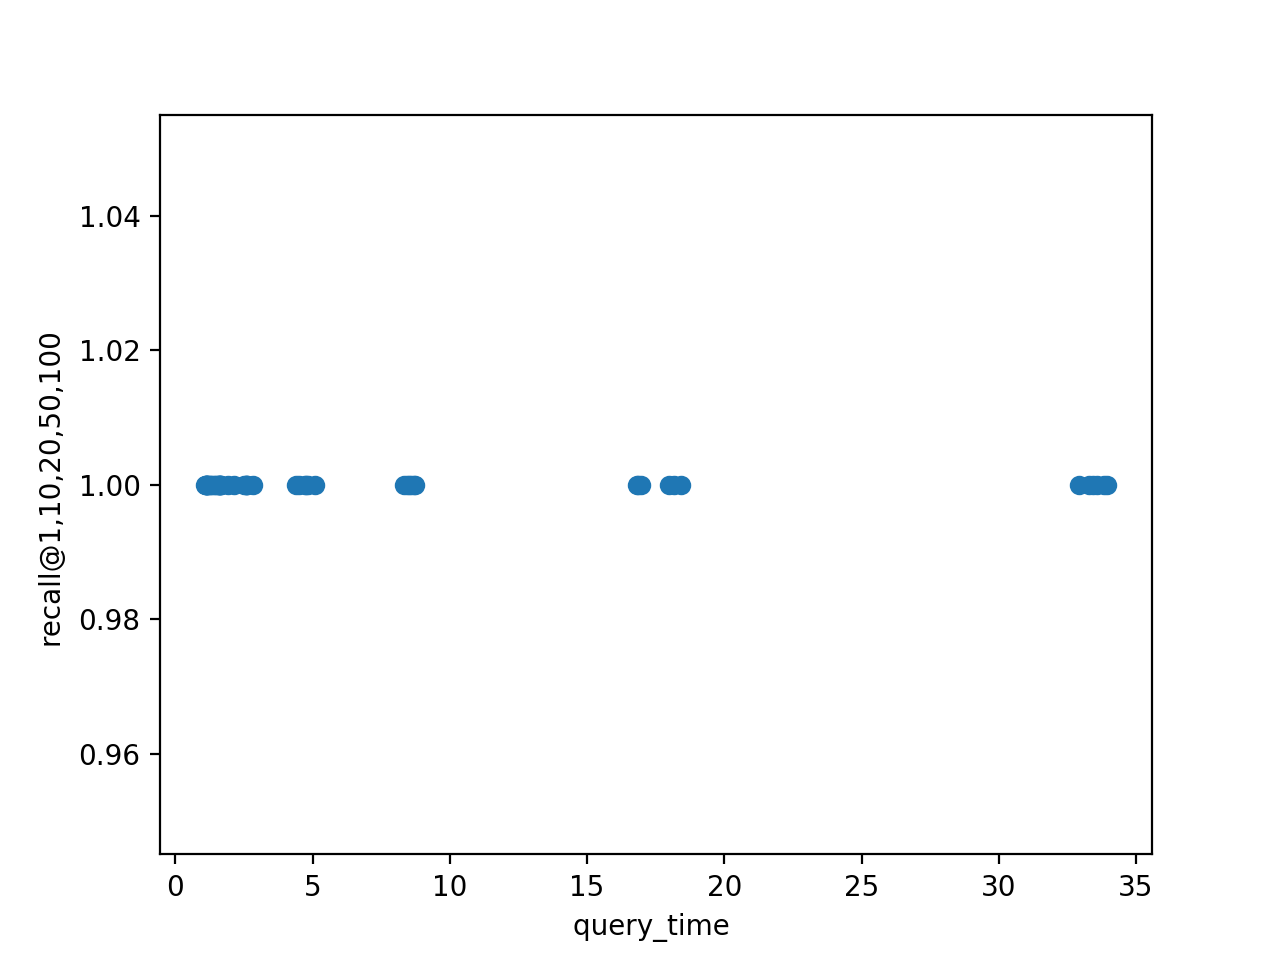
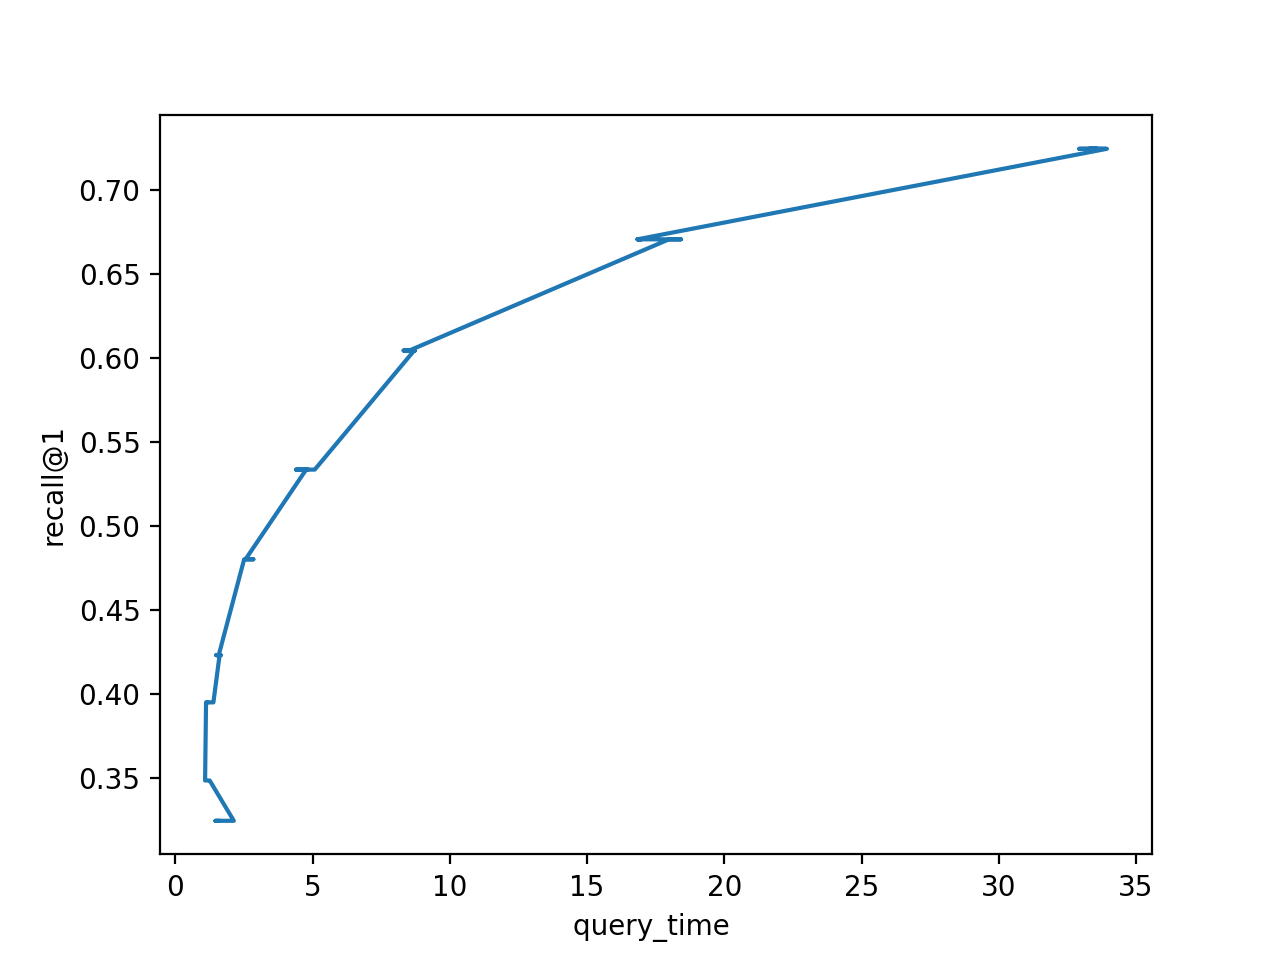
fix: takes the k parameter to be used with recall at k

diff --git a/vector_indexers/plot.py b/vector_indexers/plot.py
@@ -1,30 +1,48 @@
+import click
 import matplotlib.pyplot as plt
 import json
 import pandas as pd
 
 
-def create_plot():
-
+@click.command()
+@click.option('--recall_at', '-k', default=0)
+def create_plot(recall_at):
     input_file = open('results.json')
     json_array = json.load(input_file)
+
     result_list = []
+    result_y = []
 
     for item in json_array:
-        result_details = {"query_time": None, "recall@1,10,20,50,100": None}
+        result_details = {"index_time": None,
+                          "index_docs": None,
+                          "query_time": None,
+                          "build_time": None,
+                          "query_docs": None,
+                          "recall@1,10,20,50,100": None}
+
+        result_details['index_docs'] = item['index_docs']
+        result_details['index_docs'] = item['index_docs']
         result_details['query_time'] = item['query_time']
+        result_details['build_time'] = item['build_time']
+        result_details['query_docs'] = item['query_docs']
         result_details['recall@1,10,20,50,100'] = item['recall@1,10,20,50,100']
         result_list.append(result_details)
 
     result_list_dataframe = pd.DataFrame(result_list)
-    dfg = result_list_dataframe.groupby('query_time').count()
+    query_time = result_list_dataframe['query_time']
 
-    plt.scatter(x=dfg.index, y=dfg['recall@1,10,20,50,100'])
-    plt.ylabel('recall@1,10,20,50,100 ')
+    recall_at_k = result_list_dataframe['recall@1,10,20,50,100']
+
+    for inner_l in recall_at_k:
+        result_y.append(inner_l[recall_at])
+
+    plt.plot(query_time, result_y)
+    _recall_at = "recall@" + str(recall_at)
+    plt.ylabel(_recall_at)
     plt.xlabel('query_time ')
 
     plt.show()
-
-    dfg.plot()
 
 
 if __name__ == "__main__":

diff --git a/vector_indexers/annoy_indexer.py b/vector_indexers/annoy_indexer.py
@@ -1,11 +1,12 @@
 import os
 
-from jina.hub.indexers.vector.AnnoyIndexer import AnnoyIndexer
+
 
 WORKSPACE_DIR = os.path.join(os.path.dirname(__file__), "workspace")
 
 
 def get_annoy_indexer(params):
+    from jina.hub.indexers.vector.AnnoyIndexer import AnnoyIndexer
     n_trees = params['n_trees']
     search_k = params['search_k']
     name = params['name']

diff --git a/vector_indexers/app.py b/vector_indexers/app.py
@@ -2,7 +2,6 @@ import click
 import json
 import numpy as np
 import os
-import sys
 
 
 from jina.executors import BaseExecutor

diff --git a/vector_indexers/README.md b/vector_indexers/README.md
@@ -54,8 +54,12 @@ Important to notice that for -w , -q, and -e to work, an index command must have
 
 To see the visualization run 
 ```
-python plot.py
+python plot.py -k 0
 ```
+
+The argument it accepts is:
+
+- recall_at (-k): The 'k' parameter to be used with recall@k
 
 This will use the `results.json` and plot a graph
 
